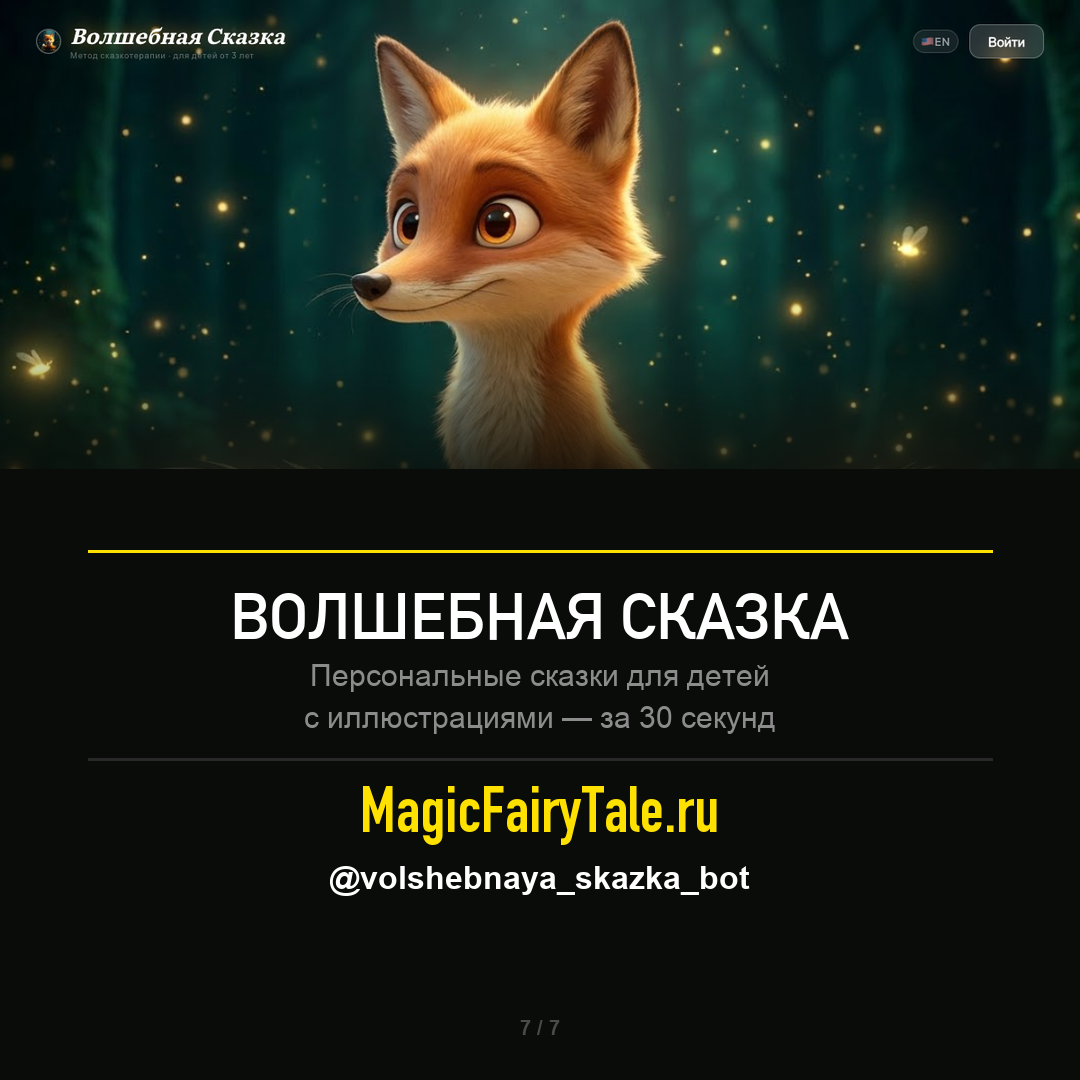
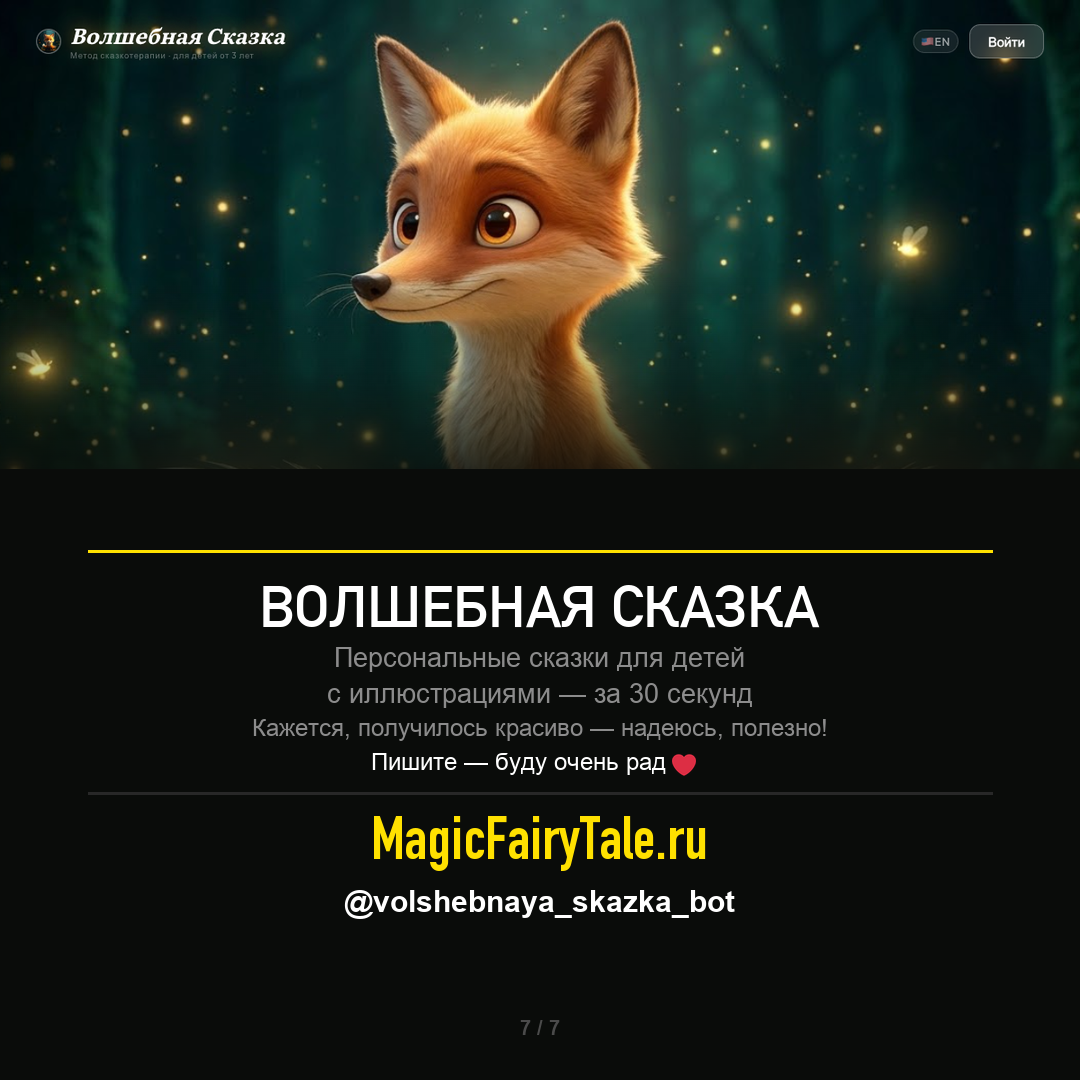
auto-sync 2026-05-24 08:02

Changed region(s): [[0.2139, 0.5194, 0.7944, 0.8556]]

diff --git a/marketing/cards/cards v2/generate_v2.py b/marketing/cards/cards v2/generate_v2.py
@@ -142,10 +142,10 @@ def card_02():
         ("",                               body(16), GREY),
         ("«Мама, не уходи!»",              med(58),  YELLOW),
         ("каждый вечер.",                  body(32), GREY),
-        ("",                               body(28), GREY),
-        ("Знакомо? →",                     bold(28), DIM),
     ]
     draw_block(img, draw, lines, 400, line_gap=16)
+
+    draw_centered(draw, "Знакомо? →", 850, bold(24), YELLOW)
 
     counter(draw, 2)
     save(img, "card_02_taya.png")
@@ -244,7 +244,7 @@ def card_06():
         ("Тая теперь сама идёт",        body(32), WHITE),
         ("знакомиться с детьми",        body(32), WHITE),
         ("",                            body(14), GREY),
-        ("Теперь говорит себе:",        body(30), GREY),
+        ("И говорит себе:",             body(30), GREY),
     ]
     draw_block(img, draw, top_lines, 148, line_gap=12)
 
@@ -298,24 +298,29 @@ def card_07():
     text_y = max(new_h - 60, 550)
 
     hline(draw, text_y, color=YELLOW)
-    text_y += 28
+    text_y += 22
 
-    draw_centered(draw, "ВОЛШЕБНАЯ СКАЗКА", text_y, med(64), WHITE)
-    text_y += 80
+    draw_centered(draw, "ВОЛШЕБНАЯ СКАЗКА", text_y, med(58), WHITE)
+    text_y += 70
 
-    draw_centered(draw, "Персональные сказки для детей", text_y, body(30), GREY)
-    text_y += 42
-    draw_centered(draw, "с иллюстрациями — за 30 секунд", text_y, body(30), GREY)
-    text_y += 58
+    draw_centered(draw, "Персональные сказки для детей", text_y, body(27), GREY)
+    text_y += 36
+    draw_centered(draw, "с иллюстрациями — за 30 секунд", text_y, body(27), GREY)
+    text_y += 36
+
+    draw_centered(draw, "Кажется, получилось красиво — надеюсь, полезно!", text_y, body(24), GREY)
+    text_y += 34
+    draw_centered_emoji(img, draw, "Пишите — буду очень рад ❤", text_y, body(24), WHITE)
+    text_y += 44
 
     hline(draw, text_y, color=(40, 40, 40))
-    text_y += 28
+    text_y += 24
 
-    fo_url = f(FONT_HEAD, 64)
+    fo_url = f(FONT_HEAD, 60)
     draw_centered(draw, "MagicFairyTale.ru", text_y, fo_url, YELLOW)
-    text_y += 74
+    text_y += 68
 
-    fo_bot = f(FONT_BOLD, 32)
+    fo_bot = f(FONT_BOLD, 30)
     draw_centered(draw, "@volshebnaya_skazka_bot", text_y, fo_bot, WHITE)
 
     counter(draw, 7)
